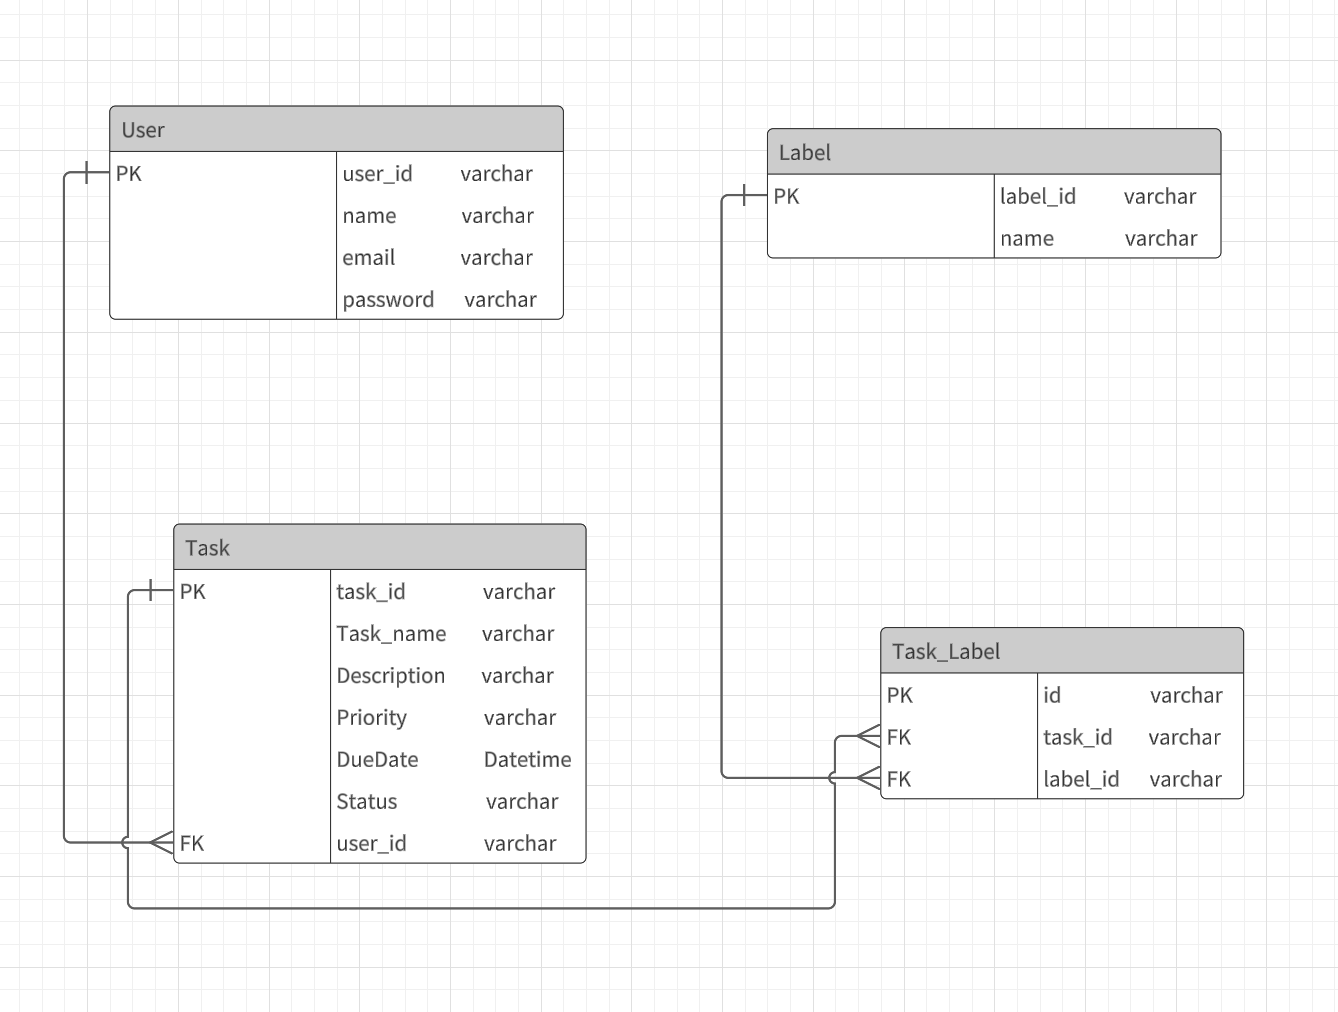
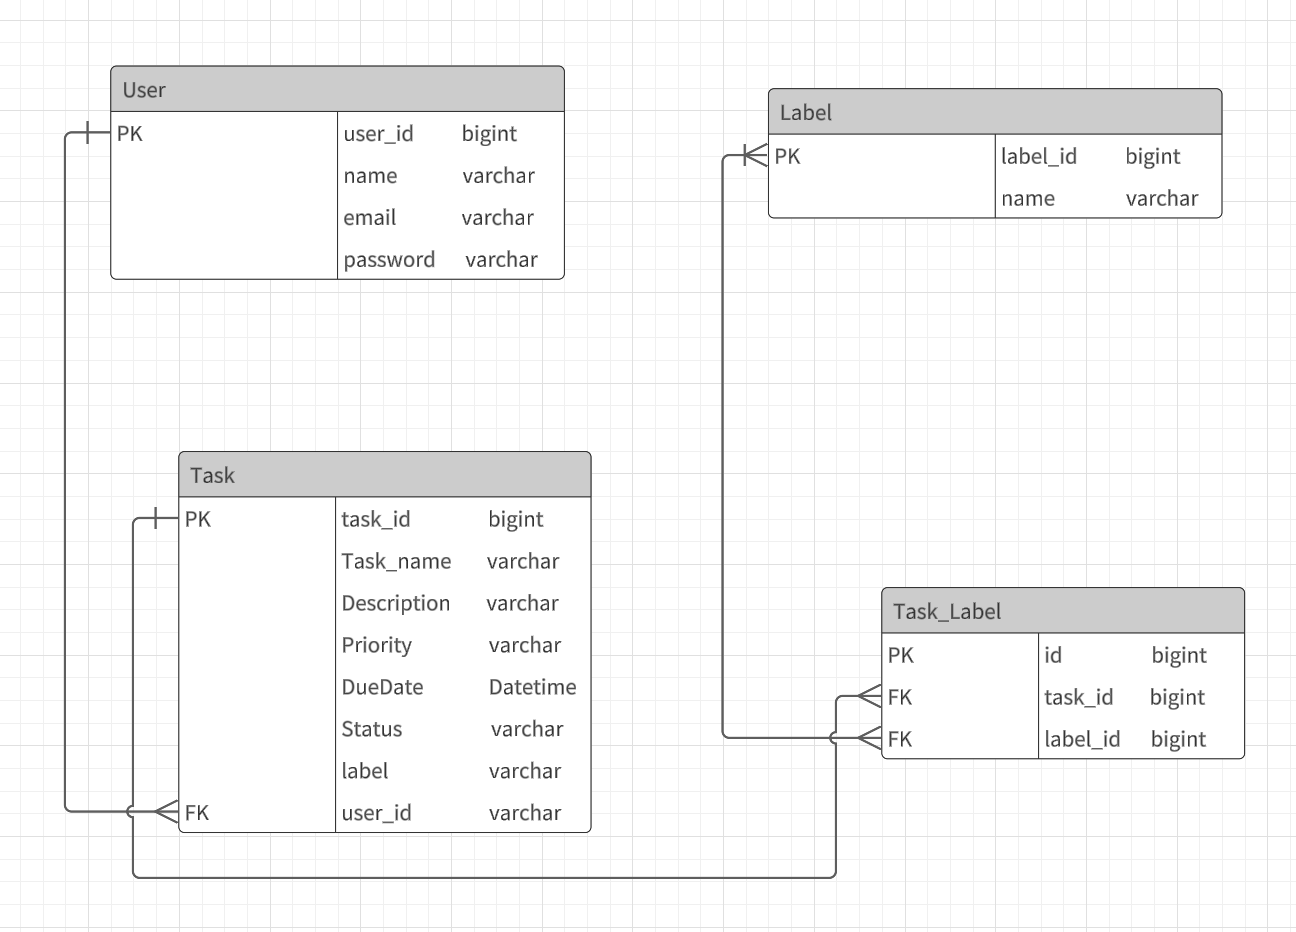
Webdesign and ER diagram

diff --git a/docs/ER_list.md b/docs/ER_list.md
@@ -7,7 +7,7 @@
 
 Key         column         type
 
-PK           user_id        varchar
+PK           user_id        bigint
              name           varchar
              email          varchar
              password       varchar
@@ -17,22 +17,23 @@ PK           user_id        varchar
 
 Key           column        type
 
-PK            task_id       varchar
+PK            task_id       bigint
               task_name     varchar
               description   varchar
               priority      varchar
               status        varchar
               duedate       datetime
+              label         varchar
               created_at    datetime
               updated_at    datetime
-FK            user_id       varchar 
+FK            user_id       bigint
 
 
 ###  labels
 
 Key            column        type
 
-PK             label_id      varchar
+PK             label_id      bigint
                label_name    varchar
 
 
@@ -40,8 +41,8 @@ PK             label_id      varchar
 
 Key             column       type
 
-PK              id           varchar
-FK              task_id      varchar
-FK              label_id     varchar
+PK              id           bigint
+FK              task_id      bigint
+FK              label_id     bigint
 
 
